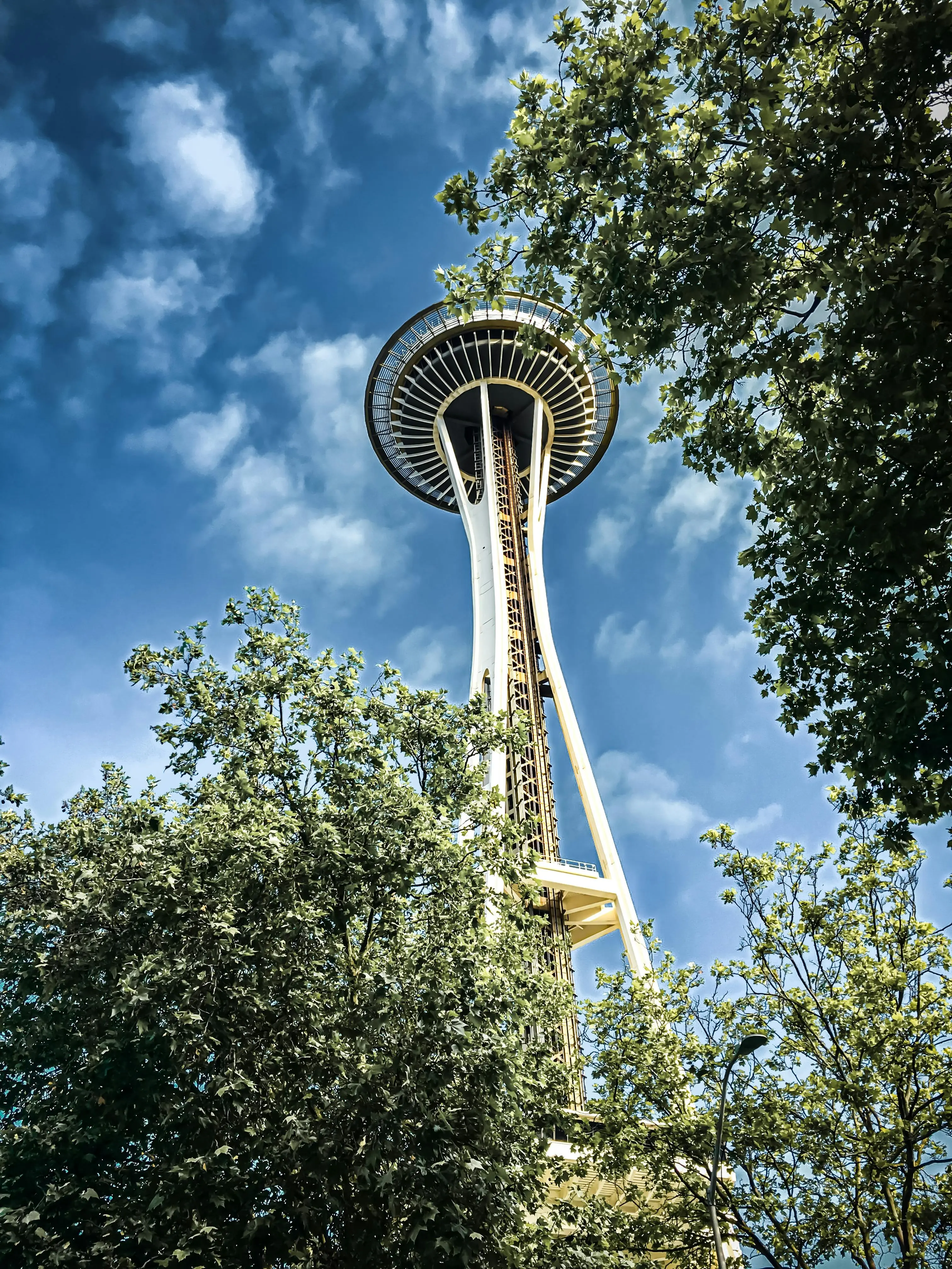
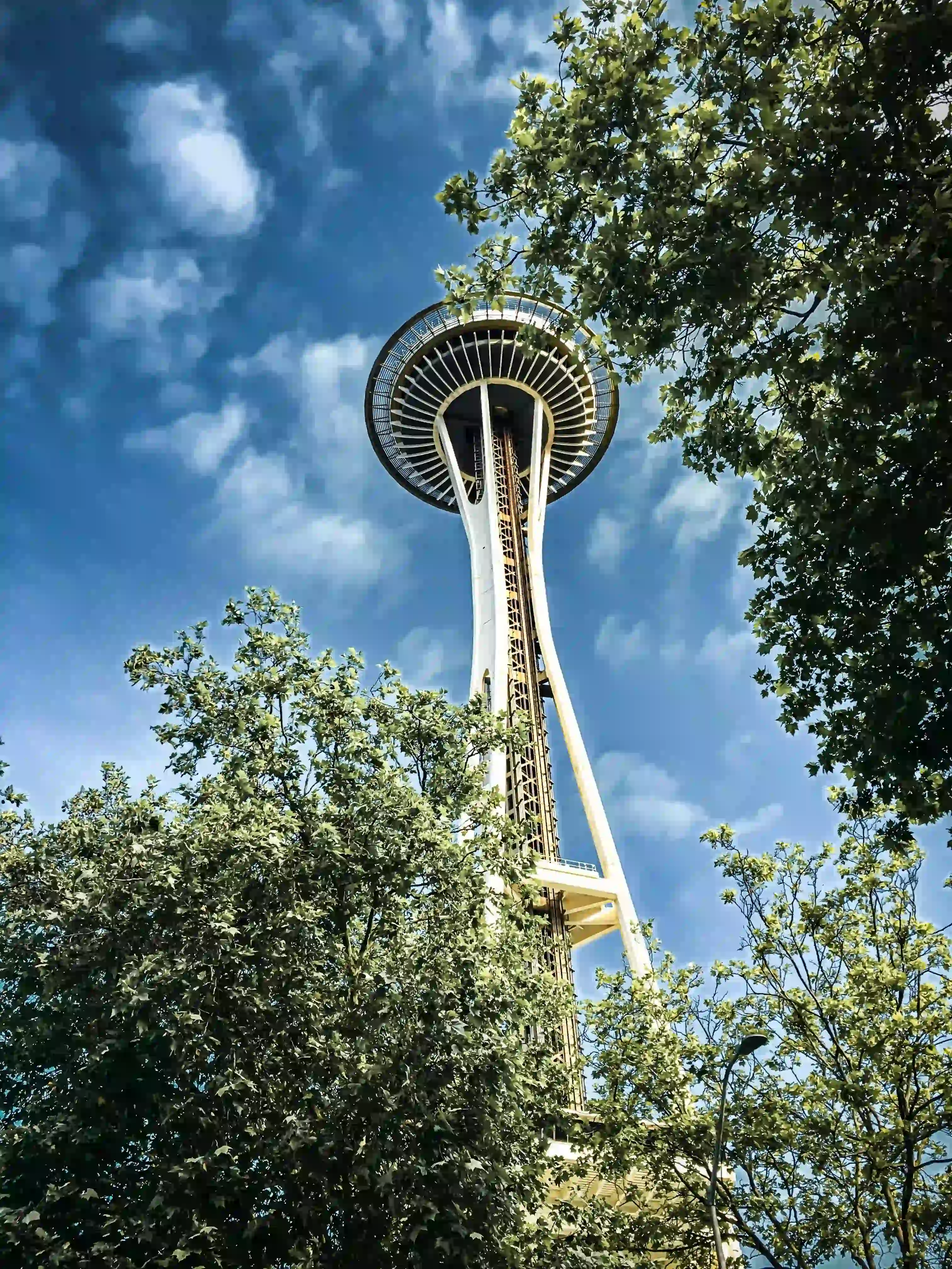
attempted to reduce seattle file size to fit criteria

diff --git a/place.html b/place.html
@@ -4,7 +4,10 @@
     <meta charset="UTF-8">
     <meta name="viewport" content="width=device-width, initial-scale=1.0">
     <meta name="description" content="An informational page about Seattle Washington">
-    <title>Place</title>
+    <meta name="keywords" content="Seattle, Washington, Space Needle, Pike Place Market, Puget Sound, Pacific Northwest">
+    <meta name="author" content="Matthew Remington">
+
+    <title>WDD131 Seattle Washington Place Assignment</title>
 
     <link rel="stylesheet" href="styles/place-mobile.css">
     <link rel="stylesheet" href="styles/place-desktop.css">
@@ -85,8 +88,8 @@
     <footer>
         <div>
             <p>&copy;<span id="year"></span><p> Matthew Remington - Idaho</p>
+            <p class="modified">Last Modified: <span id="lastModified"></span></p>
         </div>
-        <P class="modified">Last Modified: <span id="lastModified"></span></P>
     </footer>
 </body>
 </html>

diff --git a/styles/place-mobile.css b/styles/place-mobile.css
@@ -1,6 +1,5 @@
 body {
     margin: 0;
-
     font-family: Arial, sans-serif;
 }
 
@@ -20,7 +19,6 @@ header {
     display: grid;
 }
 .img_container picture {
-
     position: relative;
     top: 10px;
 }
@@ -31,7 +29,6 @@ header {
     align-items: center;
     justify-content: center;
     margin: 0;
-
     width: 100%;
     height: auto;
 }
@@ -66,7 +63,6 @@ header {
 
 .weather_seattle h2 {
     text-align: center;
-    
 }
 
 .weather_title h2 {

diff --git a/styles/place-desktop.css b/styles/place-desktop.css
@@ -14,7 +14,6 @@
         padding: 1rem;
         margin: 1rem;
         border-radius: 5px;
-
         position: absolute;
         top: 3rem;
         left: 1rem;
@@ -60,16 +59,13 @@
         position: relative;
         display: block;
         margin: 0 auto;
-
         background-color: white;
         border-radius: 50%;
-
     }
 
     .weather_title h2 {
         margin: 0;
         padding: 0.3rem;
         align-self: center;
-
     }
 }
